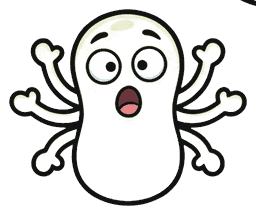
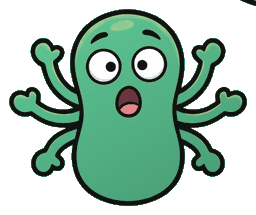
Germes verdes, fundos desfocados, missao do carro e personagem sem nada por cima
- germes da missao 03 (e 13): o recorte tinha levado o recheio do corpo, e o
  cenario aparecia por dentro; tools/germes_verdes.py pinta o corpo de verde,
  um tom por germe, com luz de cima
- todo cenario de fundo sai desfocado de verdade (copia desfocada feita uma
  vez, em metade do tamanho), com o ambiente ainda reconhecivel; o desfoque
  de efeito a cada quadro saiu
- missao 32 "Viagem tranquila" (mundo 3): pode ou nao pode no carro (jogar
  brinquedo no papai que dirige, mao para fora da janela, soltar o cinto,
  ursinho no colo, livrinho) e, na chegada, levar para a mochila so os
  brinquedos que trouxe (cinto e cadeirinha ficam no carro); 2 cenas novas
  pedidas em PROMPTS_PENDENTES
- telas "Vamos!" e "Minha vez!": balao em cima, personagem inteiro no meio e
  o botao embaixo, sem tampar os pes nem o cabelo; veu a mais no cenario;
  cartao do objeto na beirada

diff --git a/src/scenes/Missao.ts b/src/scenes/Missao.ts
@@ -21,6 +21,7 @@ import {
   botaoVoltar,
   cobrirTela,
   confete,
+  desfocada,
   estrelasNaTela,
   figura,
   fundo,
@@ -38,6 +39,11 @@ import { ETAPAS, type Ctx } from './etapas';
 import { musica, musicaDoMundo } from '../musica';
 
 const W = CONFIG.LARGURA;
+/**
+ * Alturas das telas do personagem: balao em cima, personagem (512 px de arte
+ * vezes a escala) no meio e o botao embaixo, cada um no seu espaco.
+ */
+const PALCO = { balao: 366, escala: 0.94, personagem: 800, botao: 1170 };
 
 /**
  * MOTOR GENERICO. Le a missao do JSON e monta: Mostrar -> Fazer -> Pode ou Nao Pode
@@ -119,20 +125,14 @@ export class Missao extends Phaser.Scene {
     const alvo = nome ?? this.def.cenario;
     if (!alvo || !this.textures.exists(alvo)) return;
     this.bg?.destroy();
-    const im = this.add.image(W / 2, TELA.meio, alvo).setDepth(-9);
+    const im = this.add.image(W / 2, TELA.meio, desfocada(this, alvo)).setDepth(-9);
     im.setScale(Math.max(W / im.width, TELA.altura / im.height));
     this.bg = im;
   }
 
   /** No fim da missao o cenario sai de foco: quem brilha e a estrela. */
   private desfocarCenario() {
-    if (this.bg) {
-      try {
-        this.bg.preFX?.addBlur(0, 2, 2, 1.2);
-      } catch {
-        // sem WebGL o desfoque nao existe: o veu abaixo ja da o recado
-      }
-    }
+    // o cenario ja e desfocado; aqui so o veu mais forte
     this.camada.add(
       cobrirTela(this, 0xfbf9f5, 0.72).setDepth(-1),
     );
@@ -152,48 +152,52 @@ export class Missao extends Phaser.Scene {
     this.camada.add(textoEmPainel(this, W / 2, 200, txt, 30, 360));
   }
 
-  private intro() {
-    this.limpar();
-    this.camada.add(titulo(this, `${this.def.icone}  ${this.def.titulo}`, 220));
-    const frase = narrador.falar(this.def.narracao_intro, this.def.audio_intro);
-    const p = desenharPersonagem(this, this.perfil.personagem, 1.1);
-    p.setPosition(W / 2, 820);
+  /**
+   * Palco das telas em que a crianca e o texto sao o principal ("Vamos!" e
+   * "Minha vez!"): veu a mais no cenario, o personagem inteiro entre o texto e
+   * o botao, sem nada por cima dos pes nem do cabelo.
+   */
+  private palco(frase: string) {
+    this.camada.add(cobrirTela(this, 0xfbf9f5, 0.28).setDepth(-1));
+    const p = desenharPersonagem(this, this.perfil.personagem, PALCO.escala);
+    p.setPosition(W / 2, PALCO.personagem);
     darVida(this, p);
     this.camada.add(p);
-    // o balao vem depois do personagem: cabelo grande (black power) cobria a ultima linha
-    this.camada.add(balao(this, frase, 430));
-    this.camada.add(botao(this, W / 2, 1120, 'Vamos!', () => this.mostrar(), { icone: '\u{1F680}', cor: 0x7ddc8a }));
+    // o balao vem depois do personagem: cabelo grande (black power) cobria a ultima linha.
+    // Sem a raposinha do balao aqui: ela ficava em cima do cabelo da crianca
+    this.camada.add(balao(this, frase, PALCO.balao, false));
+  }
+
+  private intro() {
+    this.limpar();
+    this.camada.add(titulo(this, `${this.def.icone}  ${this.def.titulo}`, 200));
+    this.palco(narrador.falar(this.def.narracao_intro, this.def.audio_intro));
+    this.camada.add(botao(this, W / 2, PALCO.botao, 'Vamos!', () => this.mostrar(), { icone: '\u{1F680}', cor: 0x7ddc8a }));
   }
 
   /** 1. Mostrar: o personagem faz a tarefa. */
   private mostrar() {
     this.limpar();
     const m = this.def.mostrar;
-    const frase = narrador.falar(m?.narracao ?? 'Olha como se faz!', m?.audio);
-    const p = desenharPersonagem(this, this.perfil.personagem, 1.2);
-    p.setPosition(W / 2, 830);
-    darVida(this, p);
-    this.camada.add(p);
-    // o balao vem depois do personagem: cabelo grande (black power) cobria a ultima linha
-    this.camada.add(balao(this, frase, 400));
+    this.palco(narrador.falar(m?.narracao ?? 'Olha como se faz!', m?.audio));
     // num cartao, nao solto no ar: o emoji sozinho ao lado do personagem lia
-    // como um pedaco de movel caido no quarto
+    // como um pedaco de movel caido no quarto. Na beirada, longe do cabelo e do braco
     const cartao = this.add.graphics();
     cartao.fillStyle(0xffffff, 0.96);
-    cartao.fillRoundedRect(W / 2 + 128, 712, 164, 164, 28);
+    cartao.fillRoundedRect(W - 196, 690, 164, 164, 28);
     this.camada.add(cartao);
-    const obj = figura(this, W / 2 + 210, 794, m?.img, m?.icone ?? this.def.icone, 92);
+    const obj = figura(this, W - 114, 772, m?.img, m?.icone ?? this.def.icone, 92);
     this.camada.add(obj);
     this.tweens.add({
       targets: obj,
       angle: { from: -14, to: 14 },
-      y: 770,
+      y: 748,
       duration: 500,
       yoyo: true,
       repeat: 3,
     });
     this.camada.add(
-      botao(this, W / 2, 1120, 'Minha vez!', () => this.proximaEtapa(), { icone: '\u{1F64B}', cor: 0x7ddc8a }),
+      botao(this, W / 2, PALCO.botao, 'Minha vez!', () => this.proximaEtapa(), { icone: '\u{1F64B}', cor: 0x7ddc8a }),
     );
   }
 

diff --git a/src/ui.ts b/src/ui.ts
@@ -214,16 +214,31 @@ export function fundo(cena: Phaser.Scene, fundoCor: number, imagem?: string, des
   cena.cameras.main.fadeIn(TEMA.transicao, 0, 0, 0);
   cobrirTela(cena, fundoCor).setDepth(-10);
   if (!imagem || !cena.textures.exists(imagem)) return;
-  const im = cena.add.image(W / 2, TELA.meio, imagem).setDepth(-9);
+  // todo cenario de fundo sai desfocado: fica o ambiente, sem disputar com o que se faz na frente
+  const im = cena.add.image(W / 2, TELA.meio, desfocada(cena, imagem)).setDepth(-9);
   im.setScale(Math.max(W / im.width, TELA.altura / im.height));
-  if (desfocar) {
-    try {
-      im.preFX?.addBlur(0, 2, 2, 1.4);
-    } catch {
-      // sem WebGL: o veu abaixo ja da o recado
-    }
-  }
   cobrirTela(cena, 0xfbf9f5, desfocar ? Math.min(0.78, TEMA.veu + 0.18) : TEMA.veu).setDepth(-8);
+}
+
+/**
+ * Copia desfocada do cenario, feita uma vez so por arte. Em metade do tamanho:
+ * o desfoque sai mais macio e mais barato, e nao custa nada a cada quadro como
+ * o desfoque de efeito. Sem suporte a filtro no canvas, fica so mais suave.
+ */
+export function desfocada(cena: Phaser.Scene, chave: string) {
+  const nova = `${chave}__desfocada`;
+  if (cena.textures.exists(nova)) return nova;
+  const arte = cena.textures.get(chave).getSourceImage() as HTMLImageElement;
+  const w = Math.round(arte.width / 2);
+  const h = Math.round(arte.height / 2);
+  const t = cena.textures.createCanvas(nova, w, h);
+  if (!t) return chave;
+  const ctx = t.getContext();
+  ctx.filter = 'blur(6px)';
+  // desenha um pouco maior: o desfoque nao puxa a borda transparente para dentro
+  ctx.drawImage(arte, -16, -16, w + 32, h + 32);
+  t.refresh();
+  return nova;
 }
 
 /**

diff --git a/tools/germes_verdes.py b/tools/germes_verdes.py
@@ -1,0 +1,36 @@
+"""Pinta de verde o corpo dos germes da missao 03 (m03_germe1..5).
+
+    python tools/germes_verdes.py
+
+O recorte do fundo levou junto o recheio claro dos germes: sobravam o
+contorno, os olhos e a boca, e o cenario aparecia por dentro do corpo. Aqui o
+que fica dentro do contorno ganha um verde (um tom por germe), mais claro em
+cima e a esquerda, por baixo do desenho que ja existia.
+"""
+from pathlib import Path
+
+import numpy as np
+from PIL import Image
+from scipy.ndimage import binary_fill_holes
+
+IMG = Path(__file__).resolve().parent.parent / 'assets' / 'img'
+VERDES = [(110, 196, 92), (150, 206, 74), (86, 184, 138), (128, 194, 62), (96, 176, 96)]
+
+for n, cor in enumerate(VERDES, start=1):
+    caminho = IMG / f'm03_germe{n}.png'
+    arte = Image.open(caminho).convert('RGBA')
+    a = np.asarray(arte)
+    solido = a[:, :, 3] > 40
+    dentro = binary_fill_holes(solido)
+    h, w = dentro.shape
+    yy, xx = np.mgrid[0:h, 0:w]
+    # luz vindo de cima a esquerda: 1.12 no canto claro, 0.82 no escuro
+    luz = 1.12 - 0.30 * ((xx / w) * 0.4 + (yy / h) * 0.6)
+    corpo = np.zeros_like(a)
+    for c in range(3):
+        corpo[:, :, c] = np.clip(cor[c] * luz, 0, 255)
+    corpo[:, :, 3] = np.where(dentro, 255, 0)
+    fundo = Image.fromarray(corpo.astype(np.uint8), 'RGBA')
+    fundo.alpha_composite(arte)
+    fundo.save(caminho, optimize=True)
+    print(caminho.name)

diff --git a/docs/MISSOES.md b/docs/MISSOES.md
@@ -79,6 +79,7 @@ Missao nova = arquivo JSON novo em `src/missions/`. O motor nao muda.
 - [29 — Chegando na escola](#missao-29-chegando-na-escola) · mundo 2 · livre
 - [30 — Brincar ao ar livre](#missao-30-brincar-ao-ar-livre) · mundo 4 · paga
 - [31 — Momento em família](#missao-31-momento-em-fam-lia) · mundo 6 · paga
+- [32 — Viagem tranquila](#missao-32-viagem-tranquila) · mundo 3 · paga
 
 ---
 
@@ -160,7 +161,7 @@ Mundo 1 (Manha em Casa) · cenario `bg_quarto_manha`
 
 **1. Arrastar para o alvo**
 
-> Leve o lençol, o cobertor e o travesseiro para a cama.
+> Arrume a cama na ordem: primeiro o lençol, depois o cobertor e, por último, o travesseiro.
 
 Arrasta 3 de 3 coisas para **Cama**.
   - Lençol
@@ -1387,7 +1388,7 @@ Recompensa: 1 moeda · ate 3 estrelas
 
 ## Missao 30 — Brincar ao ar livre 🌳
 
-Mundo 4 (Tarde) · cenario `bg_porta_casa` · **missao bonus** (so abre com os 5 mundos fechados)
+Mundo 4 (Tarde) · cenario `bg_parque` · **missao bonus** (so abre com os 5 mundos fechados)
 
 **Abertura:** "Que tal brincar lá fora, {nome}? Hoje é dia de passeio!"
 
@@ -1466,6 +1467,53 @@ Pergunta: "O que pode?"
 - Explicacao: "Um abraço antes de dormir deixa o coração quentinho e o sono mais calminho."
 
 **Reforco no fim:** "Família junta, coração quentinho!"
+
+Recompensa: 1 moeda · ate 3 estrelas
+
+---
+
+## Missao 32 — Viagem tranquila 🧸
+
+Mundo 3 (Volta para Casa) · cenario `bg_carro_interior`
+
+**Abertura:** "No carro também tem jeito certo de brincar, {nome}. Vamos aprender?"
+
+**O personagem mostra:** "O brinquedo fica no colo, o cinto fica preso e as mãos ficam aqui dentro."
+
+### Etapas
+
+**1. Precisa ou nao precisa**
+
+> O carro está andando. Pode fazer isso?
+
+Responde Sim ou Nao para 5 situacoes:
+  - Jogar o carrinho no papai, que está dirigindo -> **NAO** — Não pode! Quem dirige precisa olhar a rua. Brinquedo voando machuca e assusta.
+  - Segurar o ursinho no colo -> **SIM** — Pode! No colo, o brinquedo fica seguro com você.
+  - Pôr a mão para fora da janela aberta -> **NAO** — Não pode! Lá fora passam carros, postes e galhos. A mão fica aqui dentro.
+  - Olhar um livrinho sentado -> **SIM** — Pode! Livro é ótimo para viajar quietinho.
+  - Tentar soltar o cinto -> **NAO** — Não pode! O cinto só sai quando o carro parar e o adulto disser que pode.
+
+**2. Arrastar para o alvo**
+
+> Chegamos! Leve para a mochila os brinquedos que você trouxe.
+
+Arrasta 3 de 5 coisas para **Mochila**.
+  - Ursinho
+  - Carrinho
+  - Cinto do carro _(pegadinha)_
+  - Livrinho
+  - Cadeirinha _(pegadinha)_
+  - _Se erra:_ "Esse é do carro, ele fica lá. Leve só o que é seu!"
+
+### Pode ou nao pode
+
+Pergunta: "O que pode?"
+
+- Certo: **Brinquedo no colo**
+- Errado: Jogar no papai
+- Explicacao: "No carro, o brinquedo fica no colo. Jogar pode machucar e atrapalhar quem está dirigindo."
+
+**Reforco no fim:** "Brinquedo no colo, mãos aqui dentro e, na chegada, tudo de volta comigo!"
 
 Recompensa: 1 moeda · ate 3 estrelas
 

diff --git a/docs/PROMPTS_PENDENTES.md b/docs/PROMPTS_PENDENTES.md
@@ -210,3 +210,18 @@ regra das peças soltas: **fundo verde #00FF00, quadrado 2048x2048**.
 ### `m21_pia` — missão 21, a pia da cozinha (hoje aparece o cesto de roupa suja)
 
 > Ilustração 2D cartoon infantil de **uma pia de cozinha vista de frente**: cuba de inox, torneira alta e um pedaço da bancada dos dois lados, sem louça dentro. Sem armário embaixo, sem parede atrás. Sem pessoas. Contorno escuro fino e limpo, estilo de livro infantil, cores suaves e pouco saturadas. Fundo verde chapado #00FF00, uma cor só, sem sombra projetada no fundo. Imagem quadrada 2048x2048.
+
+---
+
+# 6. Missão 32, "Viagem tranquila" — 2 cenas (pedidas em 16/10/2026)
+
+As duas entram como cartão do "pode ou não pode", do mesmo jeito das cenas da
+missão 29. Enquanto não chegam, aparece o ursinho e o carrinho.
+
+### `m32_pnp_certa`
+
+> Ilustração 2D cartoon infantil, cena quadrada. **Uma criança pequena sentada na cadeirinha no banco de trás do carro, com o cinto afivelado, abraçando um ursinho de pelúcia no colo e sorrindo**, a janela fechada ao lado. Na frente, pequeno, o adulto dirigindo, de costas. Luz de fim de tarde entrando pela janela. Contorno escuro fino e limpo, estilo de livro infantil, cores suaves e pouco saturadas. Sem texto, sem letras, sem números. Imagem quadrada 1024x1024.
+
+### `m32_pnp_errada`
+
+> Ilustração 2D cartoon infantil, cena quadrada. **Uma criança pequena na cadeirinha do banco de trás do carro, com o braço esticado jogando um carrinho de brinquedo na direção do adulto que está dirigindo**, o carrinho no ar entre os bancos e o adulto, de costas, com uma mãozinha de susto levantada. Mesmo carro da cena anterior. Sem machucado, sem choro: só o susto. Contorno escuro fino e limpo, estilo de livro infantil, cores suaves e pouco saturadas. Sem texto, sem letras, sem números. Imagem quadrada 1024x1024.
